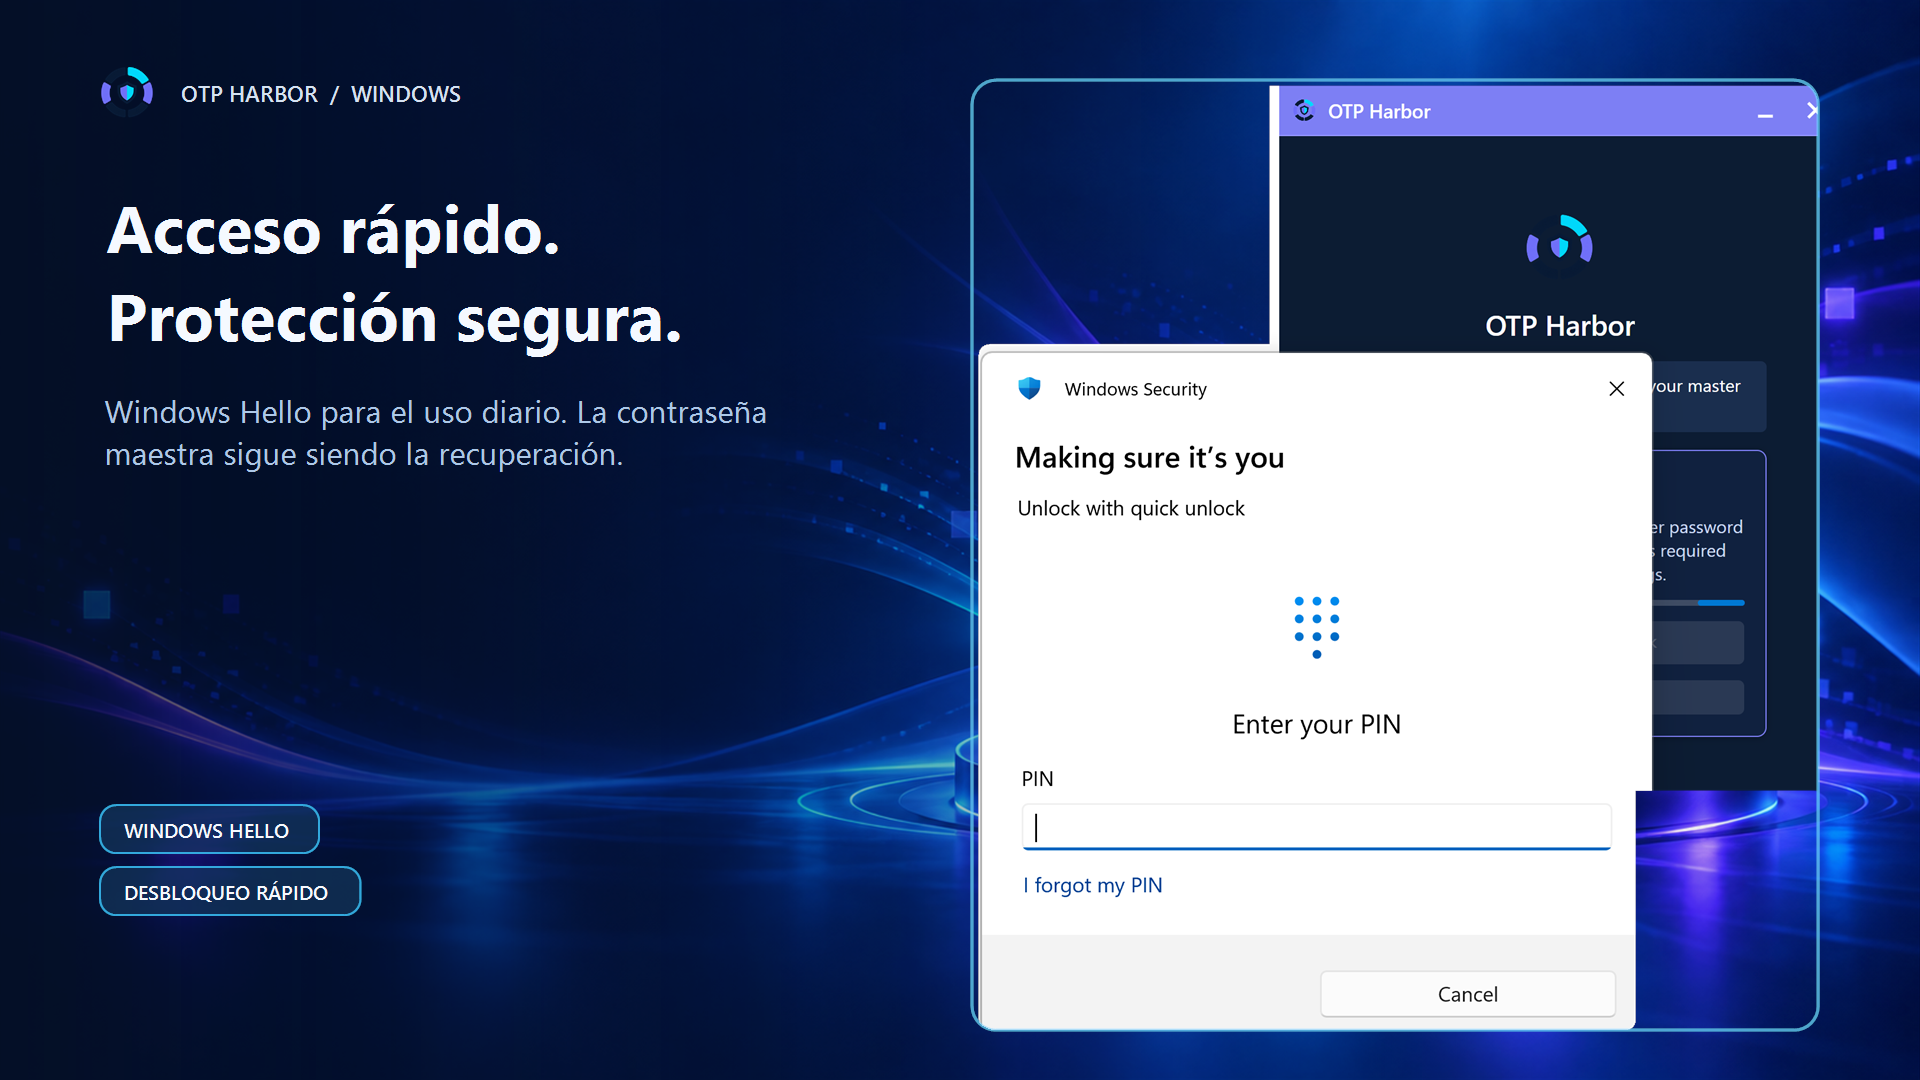
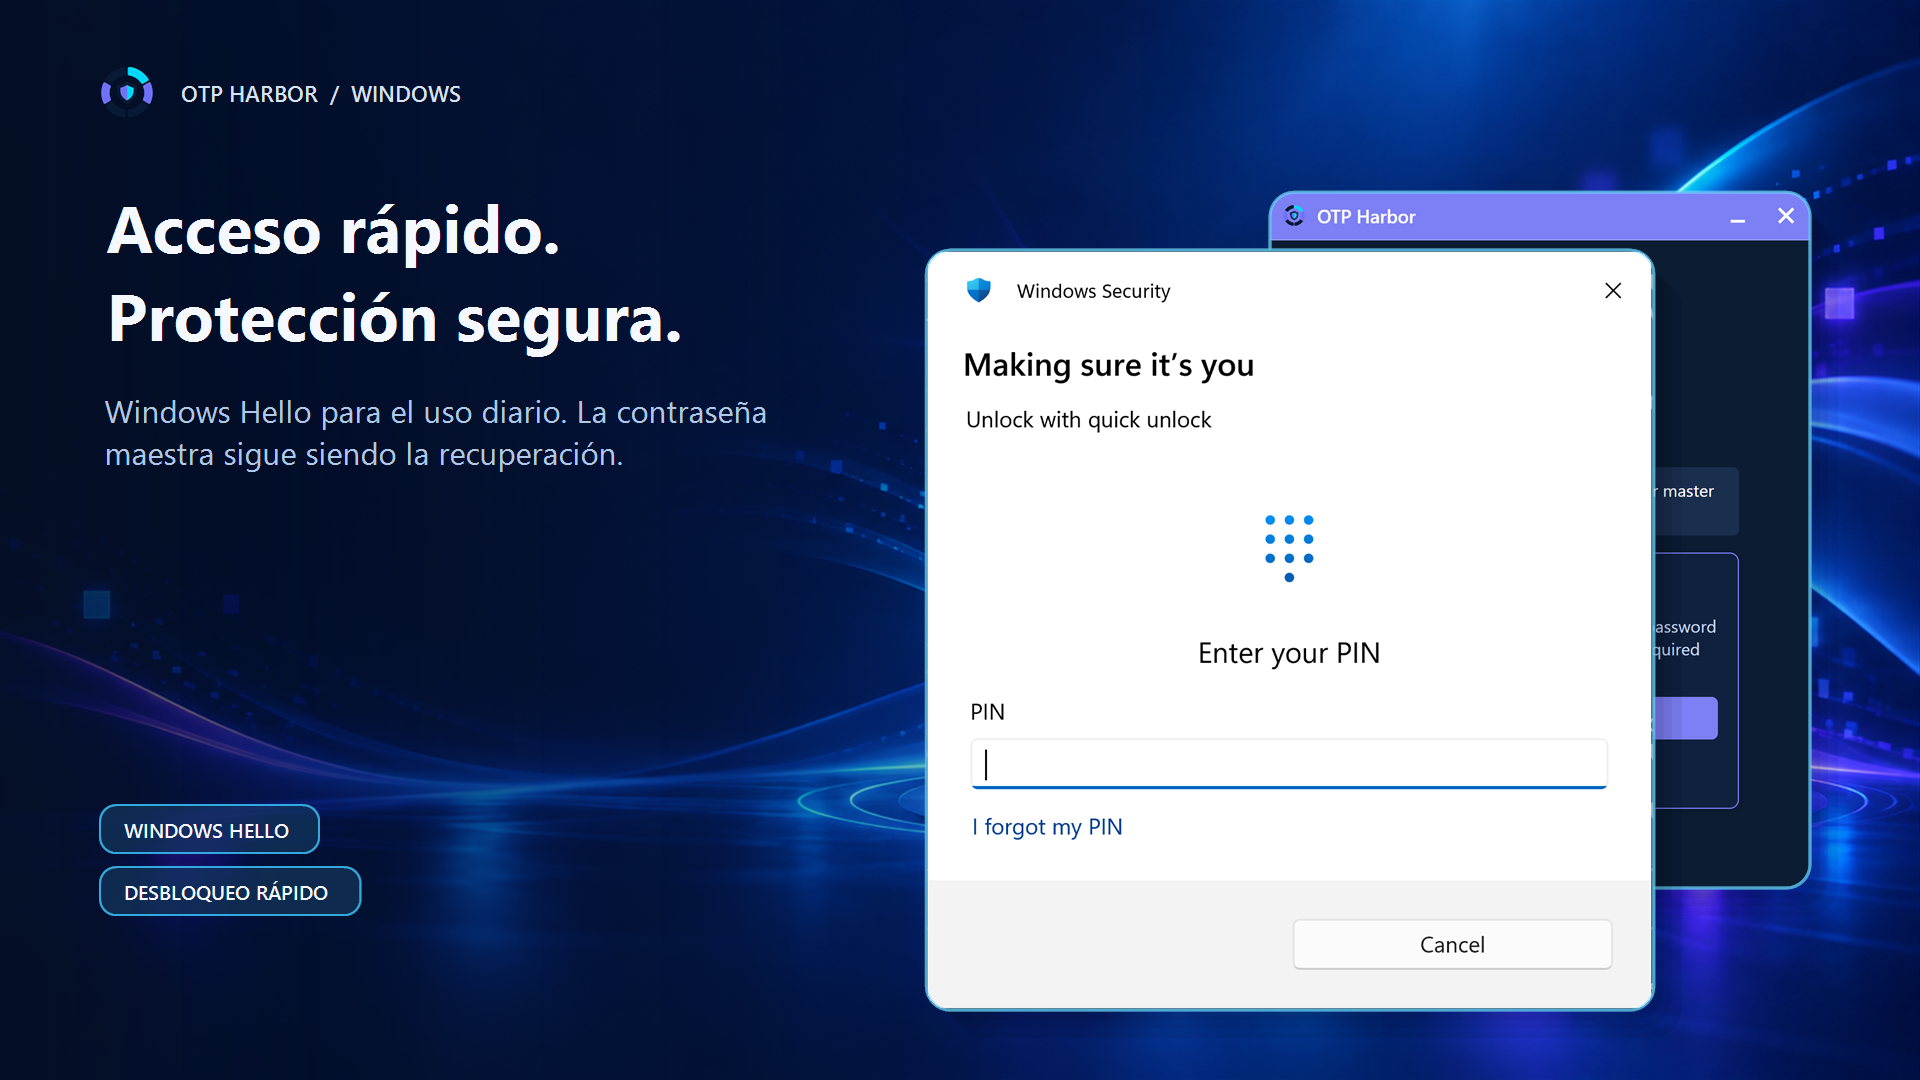
Fix editor scrollbar and refresh Hello and import Store visuals

diff --git a/TOTP.Tests.Avalonia.Headless/MainWindowSmokeTests.cs b/TOTP.Tests.Avalonia.Headless/MainWindowSmokeTests.cs
@@ -957,6 +957,34 @@ public sealed class MainWindowSmokeTests
     }
 
     [AvaloniaFact]
+    public void AccountEditorContent_ReservesSpaceForOverlayScrollBar()
+    {
+        var mainWindow = new MainWindow();
+        var templateHost = new Window();
+
+        try
+        {
+            mainWindow.Show();
+            var accountPage = mainWindow.FindControl<ContentControl>("AccountListPage");
+            Assert.NotNull(accountPage);
+            Assert.NotNull(accountPage.ContentTemplate);
+            templateHost.Content = accountPage.ContentTemplate.Build(null);
+            templateHost.Show();
+            templateHost.UpdateLayout();
+
+            var accountEditorContent = Assert.Single(
+                templateHost.GetLogicalDescendants().OfType<StackPanel>(),
+                panel => panel.Name == "AccountEditorContent");
+            Assert.Equal(new Thickness(0, 10, 28, 10), accountEditorContent.Margin);
+        }
+        finally
+        {
+            templateHost.Close();
+            mainWindow.Close();
+        }
+    }
+
+    [AvaloniaFact]
     public void SettingsWindow_IsOwnedWindowWidthWithSingleRowTabs()
     {
         var window = new SettingsWindow();

diff --git a/docs/assets/ASSET_PROVENANCE.md b/docs/assets/ASSET_PROVENANCE.md
@@ -72,8 +72,11 @@ Final generation prompt:
 deterministically composites the canonical icon, reviewed localized marketing copy, and authentic
 app captures onto that background. It creates five 1920 x 1080 outputs for each supported Store
 locale (`en-US`, `de-DE`, `fr-FR`, and `es-ES`). The 20 outputs contain only synthetic accounts. The
-Windows Hello visual uses the reviewed empty-PIN prompt in `windows-hello-quick-unlock.png`; no
-credential or biometric data is present. Text remains editable in the generator and is rendered at
+Windows Hello visual combines the maintainer-provided empty-PIN prompt in
+`windows-hello-prompt.png` with the authentic locked-app capture in `quick-unlock-screen.png`.
+The import/export visual combines the authentic settings and QR camera/file workflows from
+`import-export-settings.png` and `import-qr-camera.png`. No credential, biometric data, OTP secret,
+QR code, or private account is present. Text remains editable in the generator and is rendered at
 asset-build time; the generated screenshots themselves are not shipped inside the MSIX.
 
 ## Microsoft Store screenshots
@@ -109,6 +112,10 @@ content is present.
[10 lines of base64/hex data omitted]
@@ -124,22 +131,22 @@ content is present.
[28 lines of base64/hex data omitted]
 
 Any replacement requires a new provenance record, license review, updated hashes, and visual/build validation.

diff --git a/packaging/windows-store/STORE_LISTING.md b/packaging/windows-store/STORE_LISTING.md
@@ -41,7 +41,7 @@ For each localized Store listing, upload its polished 1920 x 1080 campaign set f
 2. `02-search-and-copy.png`
 3. `03-add-and-import.png`
 4. `04-windows-hello.png`
-5. `05-lock-and-backup.png`
+5. `05-import-export.png`
 
 Available culture folders are `en-US`, `de-DE`, `fr-FR`, and `es-ES`. The generator
 [`New-WindowsStoreMarketingScreenshots.ps1`](../../scripts/assets/New-WindowsStoreMarketingScreenshots.ps1)
@@ -60,7 +60,7 @@ Suggested German captions, in upload order:
 2. `Konten sofort finden und den aktuellen Code mit einem Klick kopieren.`
 3. `TOTP-Konten manuell oder per QR-Code hinzufügen.`
 4. `Schnell mit Windows Hello entsperren; das Masterpasswort bleibt die Wiederherstellungsmethode.`
-5. `Automatische Sperre, verschlüsselte Backups und kontrollierte Wiederherstellung.`
+5. `Verschlüsselte Backups importieren und exportieren, Google-Authenticator-QR-Exporte übernehmen oder einzelne Konten per Kamera scannen.`
 
 ## English (en-US)
 
